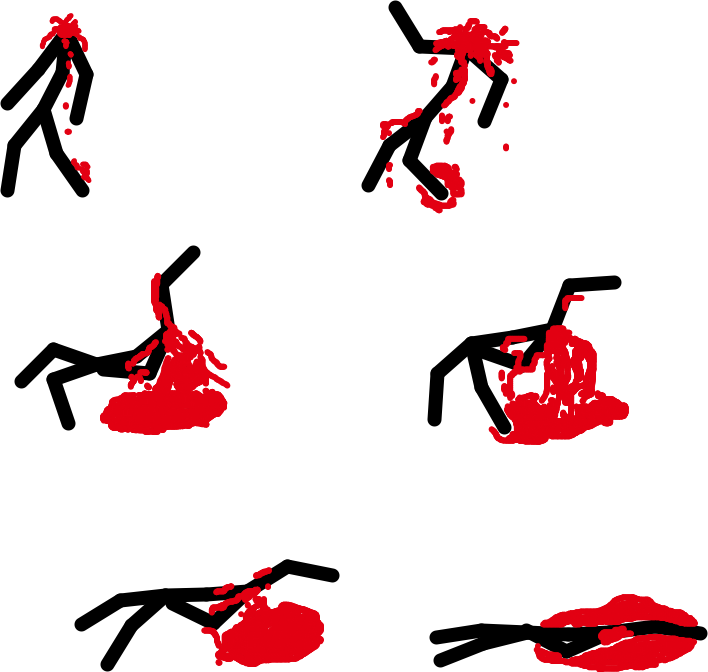
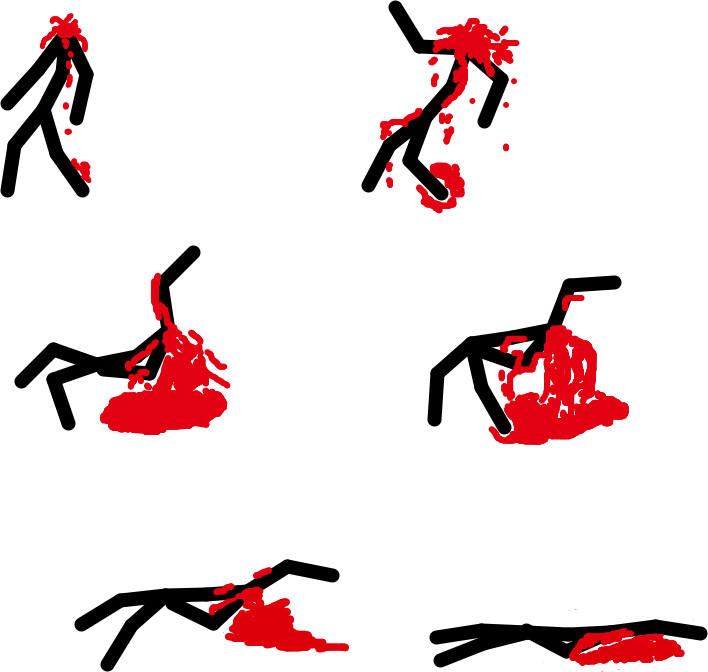
ajustement des sprites

Changed region(s): [[0.7458, 0.875, 0.9944, 1.0], [0.2797, 0.875, 0.4972, 1.0]]

diff --git a/Assets/Scripts/PlayerScore.cs b/Assets/Scripts/PlayerScore.cs
@@ -15,7 +15,7 @@ public class PlayerScore : MonoBehaviour {
 
 	void OnGUI () {
 		GUIStyle myStyle = new GUIStyle();
-		myStyle.fontSize = 24;
+		myStyle.fontSize = 36;
 		myStyle.fontStyle = FontStyle.Bold;
 		myStyle.normal.textColor = Color.red; 
 		GUI.Label (new Rect (10, 10, 100, 30), "Score: " + (int)score, myStyle);

diff --git a/Assets/Scripts/EnemySpawner.cs b/Assets/Scripts/EnemySpawner.cs
@@ -11,7 +11,7 @@ public class EnemySpawner : MonoBehaviour
 	void Start ()
 	{
 		// Start calling the Spawn function repeatedly after a delay .
-		InvokeRepeating("Spawn", spawnDelay, Random.Range (1, 6));
+		InvokeRepeating("Spawn", spawnDelay, Random.Range (1,6));
 	}
 	
 	void Spawn ()

diff --git a/Assets/Scripts/Enemy.cs b/Assets/Scripts/Enemy.cs
@@ -51,6 +51,10 @@ public class Enemy : MonoBehaviour {
 
 	// Update is called once per frame
 	void Update () {
+		if (Time.time % 30 == 0) 
+		{
+			++HP;
+		}
 		//Play hurt sound
 		if (lastHP > HP && HP != 0)
 		{
